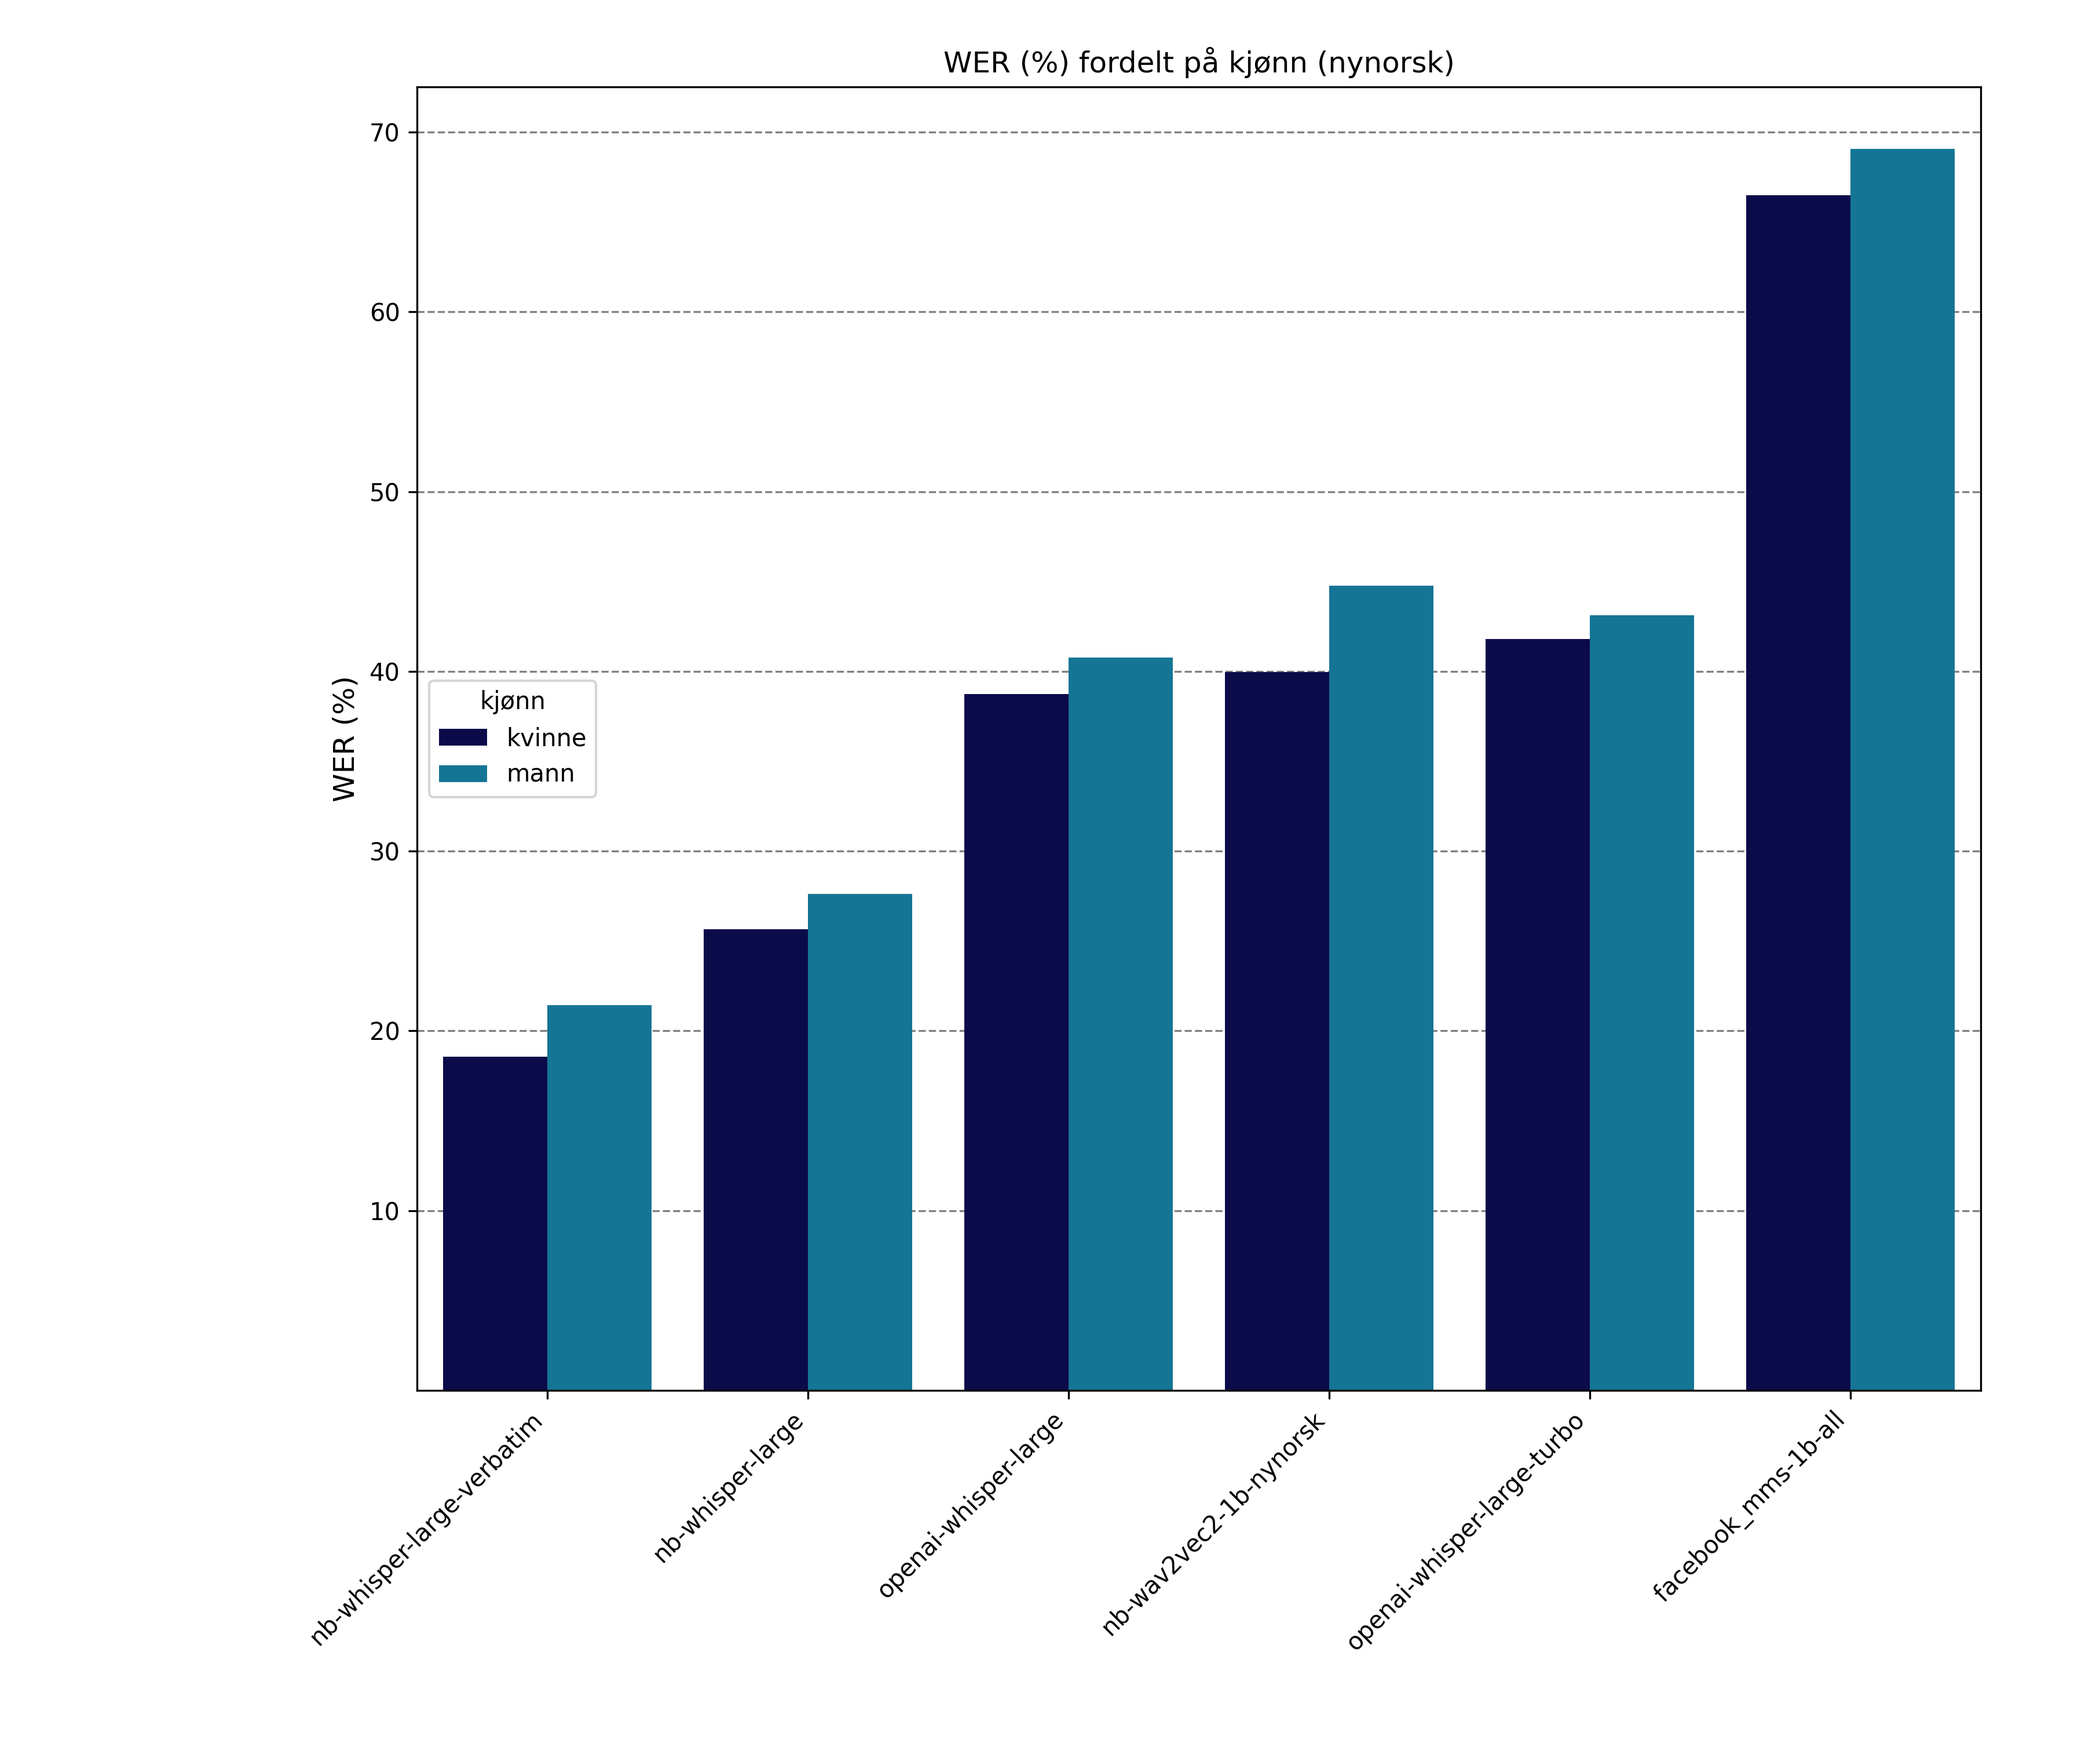
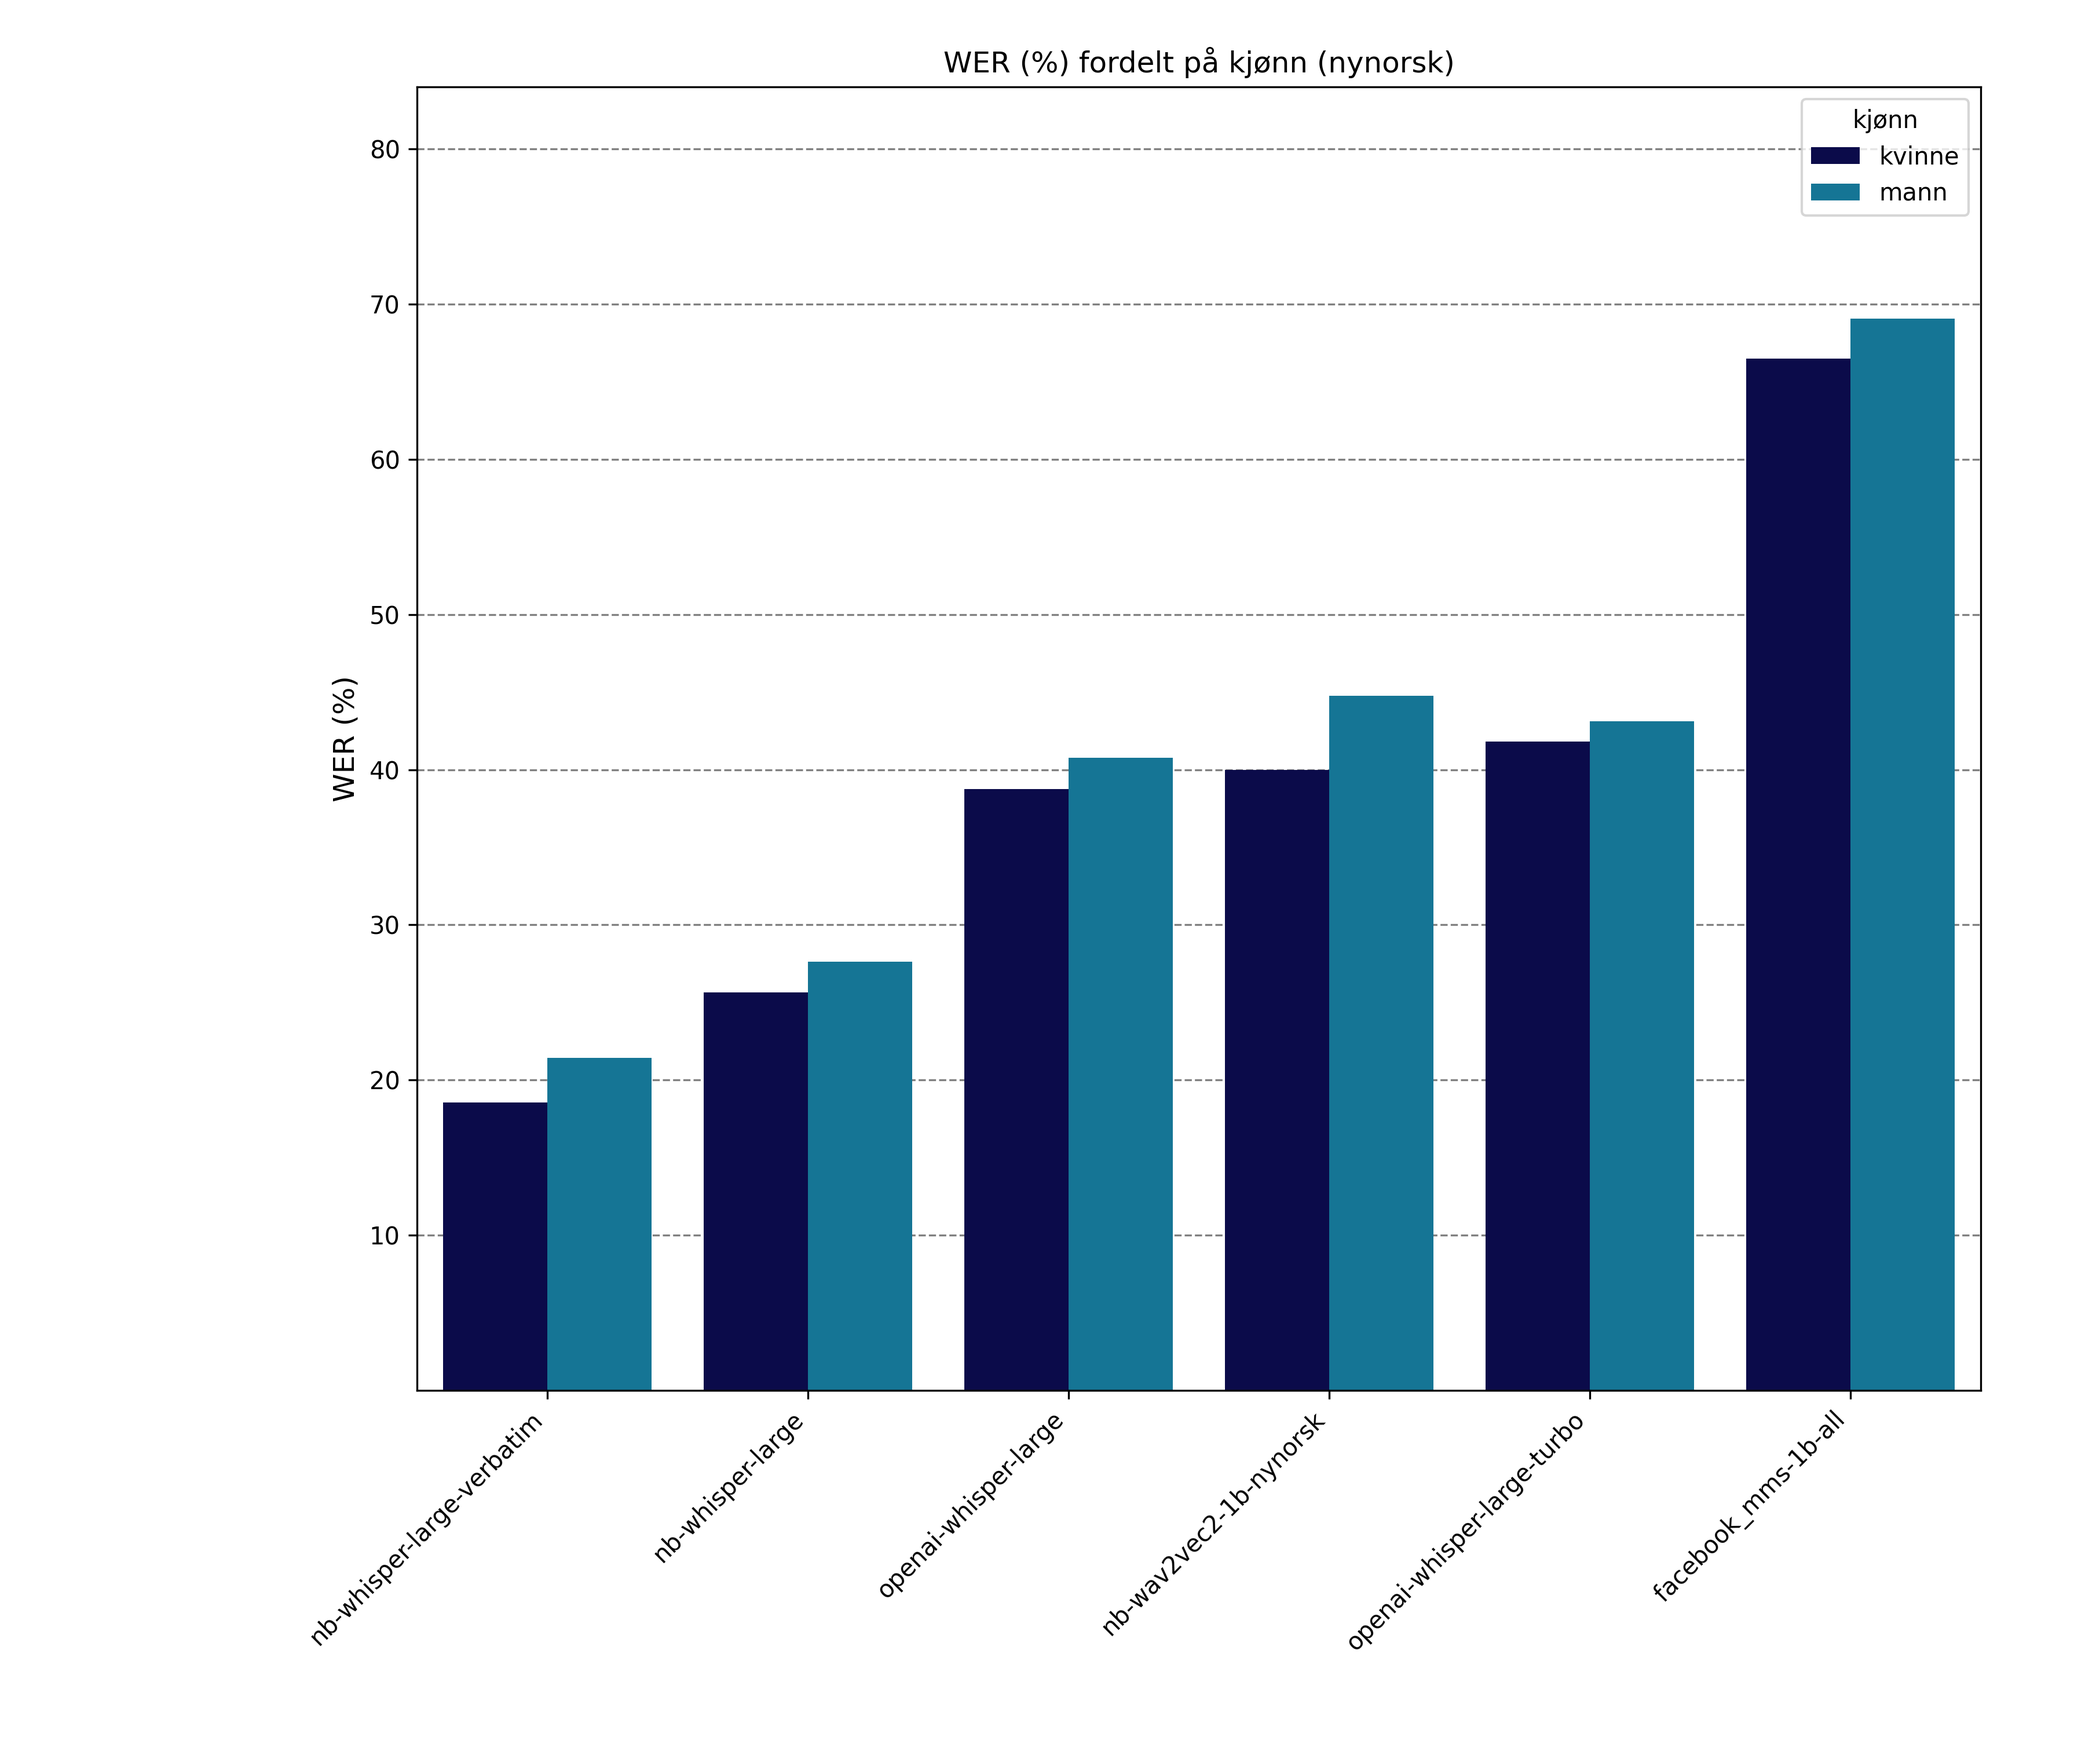
Make score_display range an optional argument to make_plot

diff --git a/notebooks/notebook_utils.py b/notebooks/notebook_utils.py
@@ -136,6 +136,7 @@ def make_plot(
     figsize=(12, 10),
     save_to_dir: Path | None = None,
     title_text: str = "",
+    score_display_range: list[int] | None = None,
     **kwargs,
 ):
     """Make a plot of the given feature"""
@@ -165,7 +166,6 @@ def make_plot(
 
     match plot_type:
         case "barchart":
-            score_display_range = list(range(10, 80, 10))
             sns.barplot(
                 x="modell",
                 y=metric,
@@ -174,11 +174,12 @@ def make_plot(
                 palette="ocean",
                 zorder=2,
             )
-
-            for y_value in score_display_range:  # Example y-values for the lines
-                plt.axhline(
-                    y=y_value, color="gray", linestyle="--", linewidth=0.8, zorder=1
-                )
+            if score_display_range:
+                # add horizontal lines
+                for y_value in score_display_range:
+                    plt.axhline(
+                        y=y_value, color="gray", linestyle="--", linewidth=0.8, zorder=1
+                    )
 
             plt.xlabel(None)
             plt.ylabel(metric + " (%)", fontsize=12)
